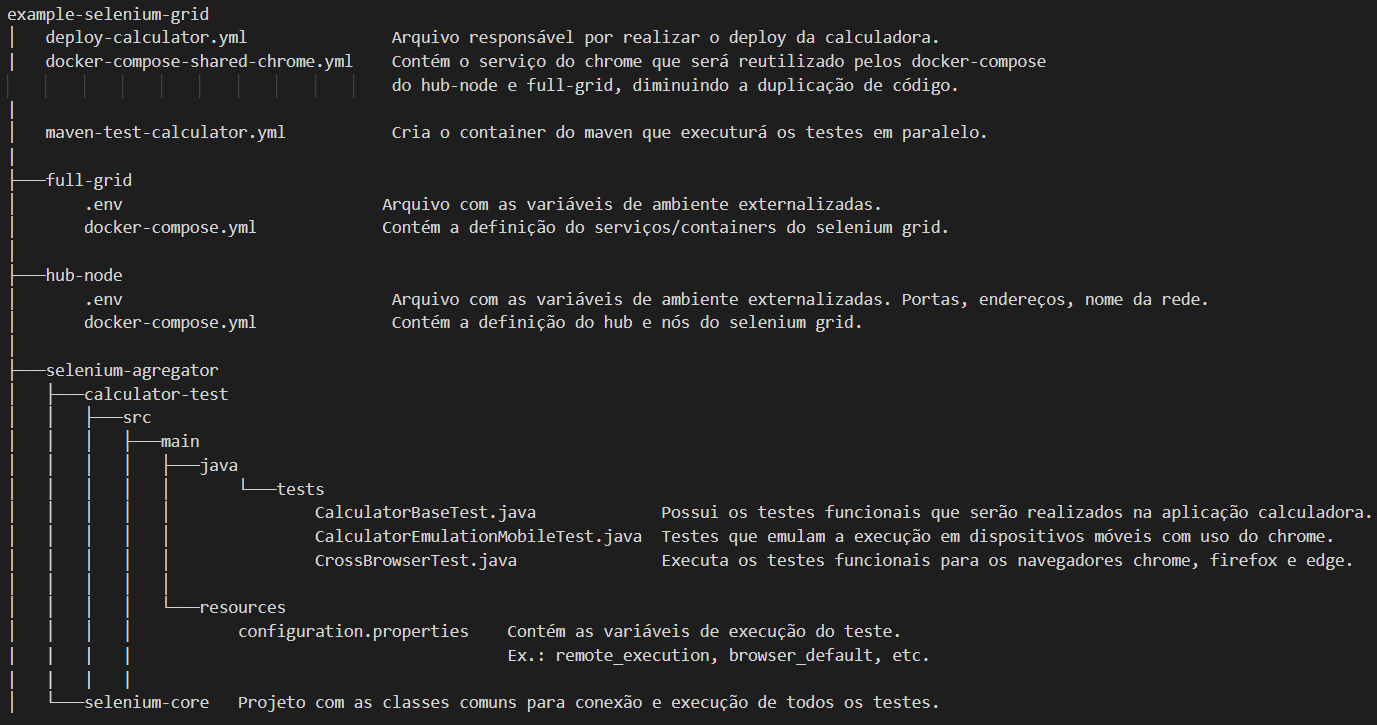
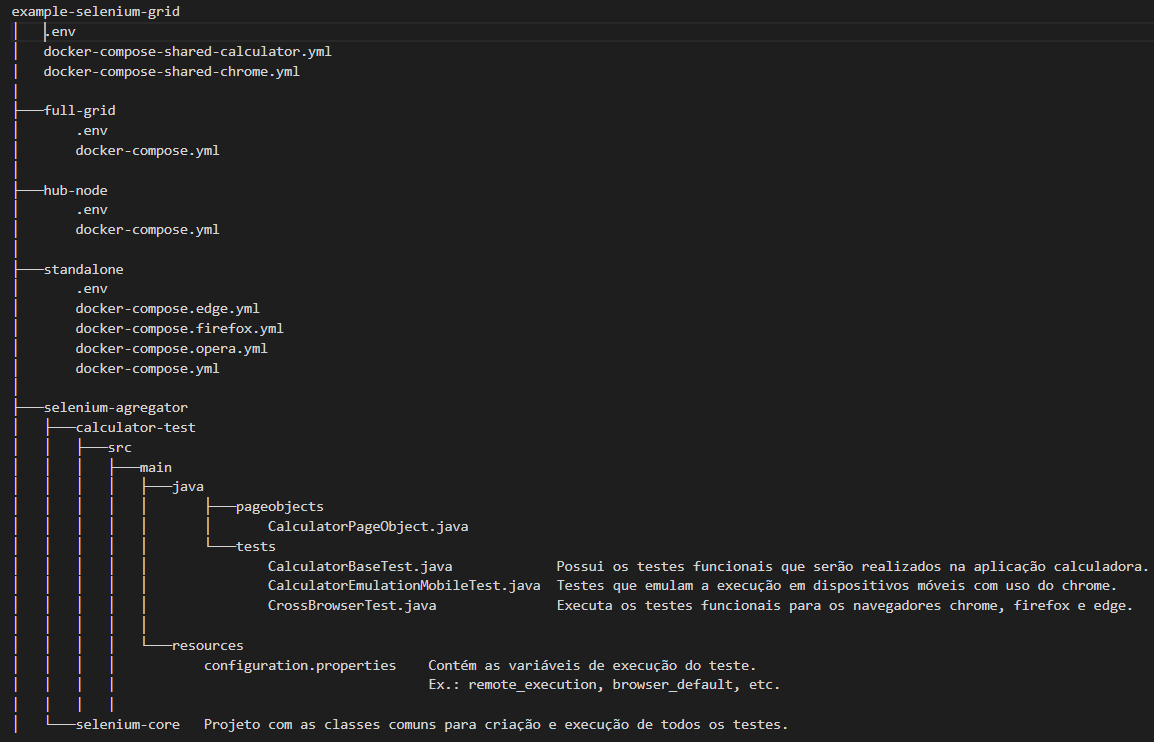
atualizando readme

Changed region(s): [[0.0, 0.0, 0.9983, 1.0], [0.2808, 0.3945, 0.8735, 0.4552], [0.2808, 0.2731, 0.6863, 0.3338]]

diff --git a/README.md b/README.md
@@ -3,30 +3,26 @@
 - [Selenium Grid](#selenium-grid)
 - [Docker Compose](#docker-compose)
 - [Solução proposta com arquitetura hub/node](#solução-proposta-com-arquitetura-hubnode)
+- [Solução com arquitetura completa do selenium grid](#solução-com-arquitetura-completa-do-selenium-grid)
 - [Execução do projeto](#execução-do-projeto)
-    - [Disponibilizando a aplicação](#disponibilizando-a-aplicação)
-    - [Disponilizando os serviços do selenium grid](#disponilizando-os-serviços-do-selenium-grid)
-    - [Executando os testes da aplicação](#executando-os-testes-da-aplicação)
+    - [Execução via Selenium GRID Standalone](#execução-via-selenium-grid-standalone)
+    - [Execução via Selenium GRID nos modos distribuídos](#execução-via-selenium-grid-nos-modos-distribuídos)
     - [Acompanhando a execução com uso do VNC](#acompanhando-a-execução-com-uso-do-vnc)
-    - [parando e removendo os container criados](#parando-e-removendo-os-container-criados)
 - [Detalhando o arquivo docker-compose](#detalhando-o-arquivo-docker-compose)
 - [Detalhando o projeto de testes](#detalhando-o-projeto-de-testes)
-- [Solução com arquitetura completa do selenium grid](#solução-com-arquitetura-completa-do-selenium-grid)
 - [Referências](#referências)
 
 
 # Visão geral do projeto
 
-Este projeto possui um exemplo de uso do selenium grid para execução de testes funcionais automatizados a partir de containers do docker com o intuito de auxiliar no aprendizado do selenium grid e do docker-compose.
+Este projeto possui exemplos de uso do selenium grid para execução de testes funcionais automatizados a partir de containers do docker com o intuito de auxiliar no aprendizado do selenium grid e do docker-compose.
 
-Uso do <b><i>[docker-compose](https://docs.docker.com/compose/)</i></b> para:
-  * Construção das arquiteturas HUB/NODES e FULL GRID do selenium grid. 
-  * Disponibilização de uma calculadora feita em [react](https://pt-br.reactjs.org/) que será o sistema sob testes.
+Aborda:
+  * Criação dos serviços do selenium grid nos modos STANDALONE, HUB/NODES e FULL GRID.
   * Execução dos testes via linha de comando a partir de uma imagem do [maven](https://maven.apache.org/).
-  * Execução de comandos e configurações do docker-compose como, por exemplo:
+  * Execução de comandos e configurações do docker-compose como por exemplo:
     * Uso de <i>profiles</i>.
-    * Reuso de arquivos com uso de <i>extends</i>.
-    * Visualização de logs
+    * Extender serviços com uso vários arquivos .yaml.
     * Externalização de variáveis.
 
 O Projeto contendo os testes da aplicação foram feitos em Java, com uso de [selenium](https://www.selenium.dev/) e  [Junit 5](https://junit.org/junit5/docs/current/user-guide/) para automação dos testes funcionais. Nele contém:
@@ -64,11 +60,35 @@ Para uma solução mais complexa, o selenium grid fornece uma arquitetura comple
 
 # Docker Compose
 
- É uma ferramenta do docker que serve para definir e executar vários contêineres. A partir de um arquivo descrito com a linguagem de marcação [YAML](https://yaml.org/),  você configura como os containers serão criados, qual a ordem de dependências entre eles, as variáveis de ambientes, volumes que serão usados, ou até mesmo comandos que os containers devem executar. E com um único comando, você cria e inicia todos os containers/serviços a partir da configuração especificada no arquivo .yml.
+ É uma ferramenta do docker que serve para definir e iniciar vários serviços em conjunto. 
+ 
+ Esta definição é feita a partir de um arquivo descrito com a linguagem de marcação YAML. Neste arquivo você pode configurar como os serviços serão criados, qual a ordem de dependências entre eles, as variáveis de ambientes, os volumes que serão usados por cada serviço, ou até mesmo comandos que os serviços devem executar na inicialização.
 
-Todos os containers definidos dentro do arquivo YAML, por padrão, farão parte da mesma rede docker, podendo se comunicar entre eles sem nenhuma configuração adicional. Cada container será definido como um serviço dentro do arquivo .yaml do docker-compose. 
+O docker-compose fornece a possibilidade de apenas partes dos serviços serem iniciados com uso de profiles(perfis). Se você definir um perfil para um serviço, ele será criado/iniciado, somente se o perfil for passado por parâmetro no comando de criação/inicialização dos serviços. No nosso exemplo foram definidos dois perfis:
+Perfil deploy-app adicionado no serviço calculadora
+Perfil test-app adicionado nos serviços calculadora e maven
 
-Tudo isso facilita o gerenciamento do ciclo de vida dos containers. Neste projeto o docker compose foi usado para definição de todos os containers necessários para disponibilizar o selenium grid nas arquiteturas hub/node e full-grid. Além da disponibilização da aplicação sob teste e da própria execução dos testes.
+
+|  profile   | containers            |
+| ---------  | ------------         | 
+| deploy-app | calculadora          |
+| test-app   | calculadora e maven  |
+
+
+Então se executar o comando padrão para criação dos serviços `docker-compose up`, os serviços da calculadora e do maven não serão criados. Apenas os componentes do selenium grid. Para criá-los será necessário passar o parâmetro profile, conforme exemplo abaixo:
+```
+docker-compose --profile=test-app up
+```
+ou
+```
+COMPOSE_PROFILES=test-app docker-compose up
+```
+
+Você pode estender serviços a fim de reusar configurações comuns entre eles. Será dado um exemplo na criação de dois nós que usam a mesma imagem do chrome(selenium/node-chrome), o mesmo número máximo de sessões(SE_NODE_MAX_SESSIONS), mas um deles foi customizado para usar uma resolução de tela diferente do padrão.
+
+Outra funcionalidade é a possibilidade de usar variáveis a partir de um arquivo externo ou a partir de variáveis de ambiente. Todas as portas e endereços serão adicionados em um arquivo .env como forma de exemplo.
+ Apenas o endereço de onde os testes devem ser executados remotamente será passado como variável de ambiente(REMOTE_URL) para o serviço do maven.
+Como uma forma de aprendizado do docker-compose, neste projeto de exemplo, todas estas funcionalidades mencionadas acima foram utilizadas.
 
  # Solução proposta com arquitetura hub/node
 
@@ -82,84 +102,89 @@ Além do HUB, serão criados 4 nós para representar as seguintes máquinas:
 
 A figura abaixo representa a solução dentro do docker com os container  do selenium grid, o container com a calculador(aplicação sob teste). E por fim um container maven que ficará responsável pela execução dos testes. Na figura, também, tem a representação das imagens que foram usadas como base para criação destes containers.
 
-![selenium_grid_docker](images/selenium_grid_docker.png)
+![selenium_grid_docker](images/hub_node_selenium_grid.png)
+
+# Solução com arquitetura completa do selenium grid
+
+A solução com todos os componentes do selenium grid foi disponibizada no diretório [full-grid](/full-grid/).
+
+
+
+Além de todos os componentes do selenium grid, a calculadora e o maven foram incorporados dentro do arquivo [full-grid/docker-compose.yml](full-grid/docker-compose.yml).
+
+Abaixo uma representação gráfica do serviços contidos no arquivo.
+![](images/selenium_full_grid_containers.png)
+
+
+
+# Execução do projeto
 
 Abaixo segue uma visão abreviada da estrutura do projeto:
 ![estrutura do projeto](/images/project_tree.png)
-
-# Execução do projeto
 
 Faça o clone do projeto em [https://github.com/raimundogomes18/example-selenium-grid](https://github.com/raimundogomes18/example-selenium-grid).
 
 Abra um prompt de comando (todos os comandos listados neste projeto foram feitos usando git bash) 
 
-### Disponibilizando a aplicação
-Vamos começar disponibilizando a calculadora. Na pasta raiz do projeto, basta executar o comando: 
+Em todos os examplos foi adicionado o uso de uma [volume externo](https://docs.docker.com/storage/volumes/#use-a-volume-with-docker-compose) para servir de cache das dependências do maven.
+Então crie o volume  m2_repository com o comando abaixo:
 ```
-docker-compose -f deploy-calculator.yml up -d
+ docker volume create m2_repository
+```
+### Execução via Selenium GRID Standalone
+
+Acesse a pasta `standalone`.
+
+Lista de comandos:
+| Comando     | Descrição
+| ------------                                 |--------------------------------------------
+| `docker-compose up -d`                       | Inicia o serviço do selenium grid com o chrome
+| `docker-compose --profile=deploy-app up -d`    | Inicia o serviço do selenium grid e a aplicação.
+| `docker-compose --profile=test-app up -d`    | Inicia o serviço do selenium grid, a aplicação e a execução do serviço do maven que executará os testes.
+| `docker-compose --profile=test-app logs maven`  | Visualiza apenas o log do serviço do maven. 
+| `docker-compose --profile=test-app logs --follow maven`  | Visualiza o log do serviço do maven e continua mostrando o log até o ctrl + C ser acionado.
+| ` docker-compose --profile=test-app down` | Destruir todos os serviço criados.
+
+Para os navegadores edge, firefox e opera foi usado o conceito de [compartilhamento/reúso de serviço entre arquivos do docker-compose](https://docs.docker.com/compose/extends/). Então para cada navegador foi criado um arquivo e nele sobrescrito:
+  * No serviço `browser` a imagem 
+  * E no serviço `maven` a variável de ambiente DEFAULT_BROWSER.
+  
+Segue exemplo para o opera:
+```
+services:
+  browser:
+    image: selenium/standalone-opera:75.0
+    
+  maven:
+    environment:
+     DEFAULT_BROWSER: "opera"
 ```
 
-Se tudo ocorrer bem a imagem da calculadora será baixada e você visualizará no final a mensagem <i>Creating calculator ... done</i>.
-
-Aguarde alguns segundos, e execute o comando  
+Comando para execução com o navegador EDGE:
 ```
-docker-compose -f deploy-calculator.yml logs
+docker-compose -f docker-compose.yml -f docker-compose.edge.yml  --profile=test-app up -d
 ```
-Você deve visualizar a mensagem <i>Compiled successfully!</i>. conforme imagem a baixo:
 
-![calculator_start](images/calculator_start.png)
-
-Em seguida acesse o navegador de sua preferência e acesse:
-[http://localhost:3000](http://localhost:3000) para visualizar a calculadora.
-
-![calculator](images/calculator.png)
-
-### Disponilizando os serviços do selenium grid
-
-Agora vamos subir os serviços do selenium grid. Execute o comando:
+Destruir os serviços:
 ```
-docker-compose -f hub-node/docker-compose.yml up -d
+docker-compose -f docker-compose.yml -f docker-compose.edge.yml  --profile=test-app down
 ```
-Este comando, na primeira vez que executado demorará um pouco mais, por que baixará todas as imagens usadas no selenium grid.
-
-No final do log, você deve visualizar umas mensagens semelhantes as abaixo:
-```
-Creating hub                        ... done
-Creating hub-node_chrome_1          ... done
-Creating hub-node_chrome-1024x768_1 ... done
-Creating hub-node_edge_1            ... done
-Creating hub-node_firefox_1         ... done
-```
-As mensagens acima indicam apenas que os containers foram criados, mas ainda levará mais alguns segundos ou minutos para a comunicação entre o hub e os nós sejam completamente estabelecidas.
-
-Você pode acompanhar o log com o comando: `docker-compose -f hub-node/docker-compose.yml logs`.
-
-No log deve aparecer, para cada nó, a mensagem <i>`Node has been added`</i>.
-
-Caso deseje visualizar somente o log de um serviço especifico, basta executar o comando `docker-compose -f hub-node/docker-compose.yml logs [serviço]`. Como por exemplo: `docker-compose -f hub-node/docker-compose.yml logs hub` para visualizar somente o log do hub.
-
-Em seguida acesse: [http://localhost:4444/](http://localhost:4444/) para visualizar o grid e os nós que foram criados.
-
-Você deve visualizar uma imagem semelhante a abaixo:
-![grid-console](images/grid-console.png)
-
-### Executando os testes da aplicação
-
-Para executar os testes, execute o comando:
-```
-GRID_URL_ADDRESS=hub GRID_URL_PORT=4444 NETWORK_NAME=selenium-grid docker-compose -f maven-test-calculator.yml up
-```
-O maven precisa saber o endereço e porta onde ele fará a execução remota. Para isso, antes do comando docker-compose foi passado os parâmetros  `GRID_URL_ADDRESS` e `GRID_URL_PORT`. O docker-compose entenderá estes parâmetros como variáveis de ambiente.
-
-Ao final da execução o log deve exibir as mensagens: <i>`BUILD SUCCESS`</i> e <i>`maven exited with code 0`</i>, conforme imagem abaixo:
-
-![maven_test-sucess](/images/maven_test_sucess.png)
+### Execução via Selenium GRID nos modos distribuídos
+Para executar no modo hub/nó ou totalmente distribuído, basta a partir da pasta executar o comando:
+`docker-compose --profile=test-app up -d`
 
 ### Acompanhando a execução com uso do VNC
 
+
 O VNC (Virtual Network Computing) é um protocolo de internet que permite a visualização de interfaces gráficas remotas através de uma conexão segura. Em outras palavras, você pode acessar  o conteúdo de outro computador remotamente, através da internet.
 
-Para acompanhar a execução dos testes que está ocorrendo de dentro dos nós do selenium grid, você pode usar uma IDE de sua preferência. 
+Os exemplos do selenium grid standalone foram configurados para [acompanhamento na porta 7900 via navegador](https://github.com/SeleniumHQ/docker-selenium#using-your-browser-no-vnc-client-is-needed). Então para acompanhar, basta acessar http://locahost:7900
+
+![](images/no_vnc.png)
+
+![](images/no_vnc_conectado.png)
+
+Para os exemplos nos modos hub/nó e distribuído, o acompanhamento foi configurado usando o [cilente vnc](https://github.com/SeleniumHQ/docker-selenium#using-a-vnc-client) que é disponibilizado na pora 5900.
 
 No exemplo abaixo está sendo usado o [VNC Viewer](https://www.realvnc.com/pt/connect/download/viewer/).
 
@@ -193,114 +218,14 @@ Para visualizar o log, execute o comando:
 docker container logs  maven
 ```
 
-### parando e removendo os container criados
 
-Primeiro vamos remover o container do maven com o comando `docker rm maven`.
-
-Em seguida vamos parar os container do selenium-grid com o comando:
-```
-docker-compose -f hub-node/docker-compose.yml stop
-```
-
-As mensagens abaixo devem ser exibidas:
-<pre>
-Stopping hub-node_firefox_1         ... done
-Stopping hub-node_edge_1            ... done
-Stopping hub-node_chrome-1024x768_1 ... done
-Stopping hub                        ... done
-Stopping hub-node_chrome_1          ... done
-</pre>
-
-A calculadora com o comando:
-```
-docker-compose -f deploy-calculator.yml stop
-```
-
-As mensagens abaixo devem ser exibidas:
-<pre>
-Stopping calculator ...        ... done
-</pre>
-
-Para remover os containers do selenium grid em definitivo: `docker-compose  -f hub-node/docker-compose.yml  down`.
-
-As mensagens abaixo devem ser exibidas:
-<pre>
-Removing hub-node_firefox_1         ... done
-Removing hub-node_edge_1            ... done
-Removing hub-node_chrome-1024x768_1 ... done
-Removing hub                        ... done
-Removing hub-node_chrome_1          ... done
-Removing network selenium-grid      ... done
-</pre>
-
-Para remover o container da calculadora em definitivo: 
-
-```
-docker-compose  -f deploy-calculator.yml  down
-```
-As mensagens abaixo devem ser exibidas:
-<pre>
-Removing calculator ... done
-Removing network selenium-grid
-WARNING: Network selenium-grid not found.
-</pre>
-
-Observe que a rede `selenium-grid` foi removida junto com os containers do selenium grid, por isso o WARNING de `not found`.  
 
 # Detalhando o arquivo docker-compose
  PENDENTE
 # Detalhando o projeto de testes
 PENDENTE
 
- # Solução com arquitetura completa do selenium grid
 
-A solução com todos os componentes do selenium grid foi disponibizada no diretório [full-grid](/full-grid/).
-
-Neste solução foi usada uma abordagem um pouco diferente da disponibilizada com a solução hub/nodes.
-
-A calculadora e o maven foram incorporados dentro do arquivo [full-grid/docker-compose.yml](full-grid/docker-compose.yml)
-
-Esta estratégia foi utilizada para abordamos outra funcionalidade de `profiles` disponibilizado no docker-compose.
-
-Basicamente consiste na criação de perfis para os containers. Os container que pertencerem a algum perfil **não** serão criados por padrão. Para que eles sejam criados, será necessário que os perfiis seja passados como parâmetro na inicialização.
-
-no nosso exemplo, foram definidos dois perfis:
-|  profile   | containers            |
-| ---------  | ------------         | 
-| deploy-app | calculadora          |
-| test-app   | calculadora e maven  |
-
-Então caso desejemos subir somente os containers do selenium-grid, basta executarmos o comando (Assumindo que você esta,ps executando os comando a partir da raiz do projeto):
-
-```
-docker-compose -f full-grid/docker-compose.yml up
-```
-Também com o deploy da calculadora:
-```
-COMPOSE_PROFILES=deploy-app docker-compose -f full-grid/docker-compose.yml up
-```
-
-```
-COMPOSE_PROFILES=test-app docker-compose -f full-grid/docker-compose.yml up
-```
-Embora no nosso exemplo não haja a necessidade, poderiamos passar mais de um `profile` como parâmetro.
-
-Outro forma de passar o perfil é com o parâmetro `--profile`.
-
-```
-docker-compose --profile=deploy-app docker-compose -f full-grid/docker-compose.yml up
-```
-Outra diferença é que com a arquitetura completa do selenium grid. O serviço hub, serão substituído, pelos serviços:
-
-| Serviços      | Descrição                            
-| --------------| -------------------------------------
-| event-bus     | Usado para enviar mensagens que podem ser recebidas assincronicamente entre os outros componentes.
-| session-queue      | Mantém uma lista de sessões recebidas que ainda não foram atribuídas a um Nó pelo Distribuidor.
-| sessions | Mantém um mapeamento entre o ID da sessão e o endereço do Nó em que a sessão está sendo executado.
-| distributor   | Responsável por manter um modelo dos locais disponíveis no `GRID` onde uma sessão pode ser executada (conhecida como "slots") e tomar quaisquer novas solicitações de sessão recebidas e atribuí-las a um slot.
-| router        | Responsável por receber toda a comunicação do grid com os clientes externos ao GRID. Seria o front-end do grid.
-
-Os nós são os mesmos usados no exemplo do hub/node.
 
 # Referências
 
